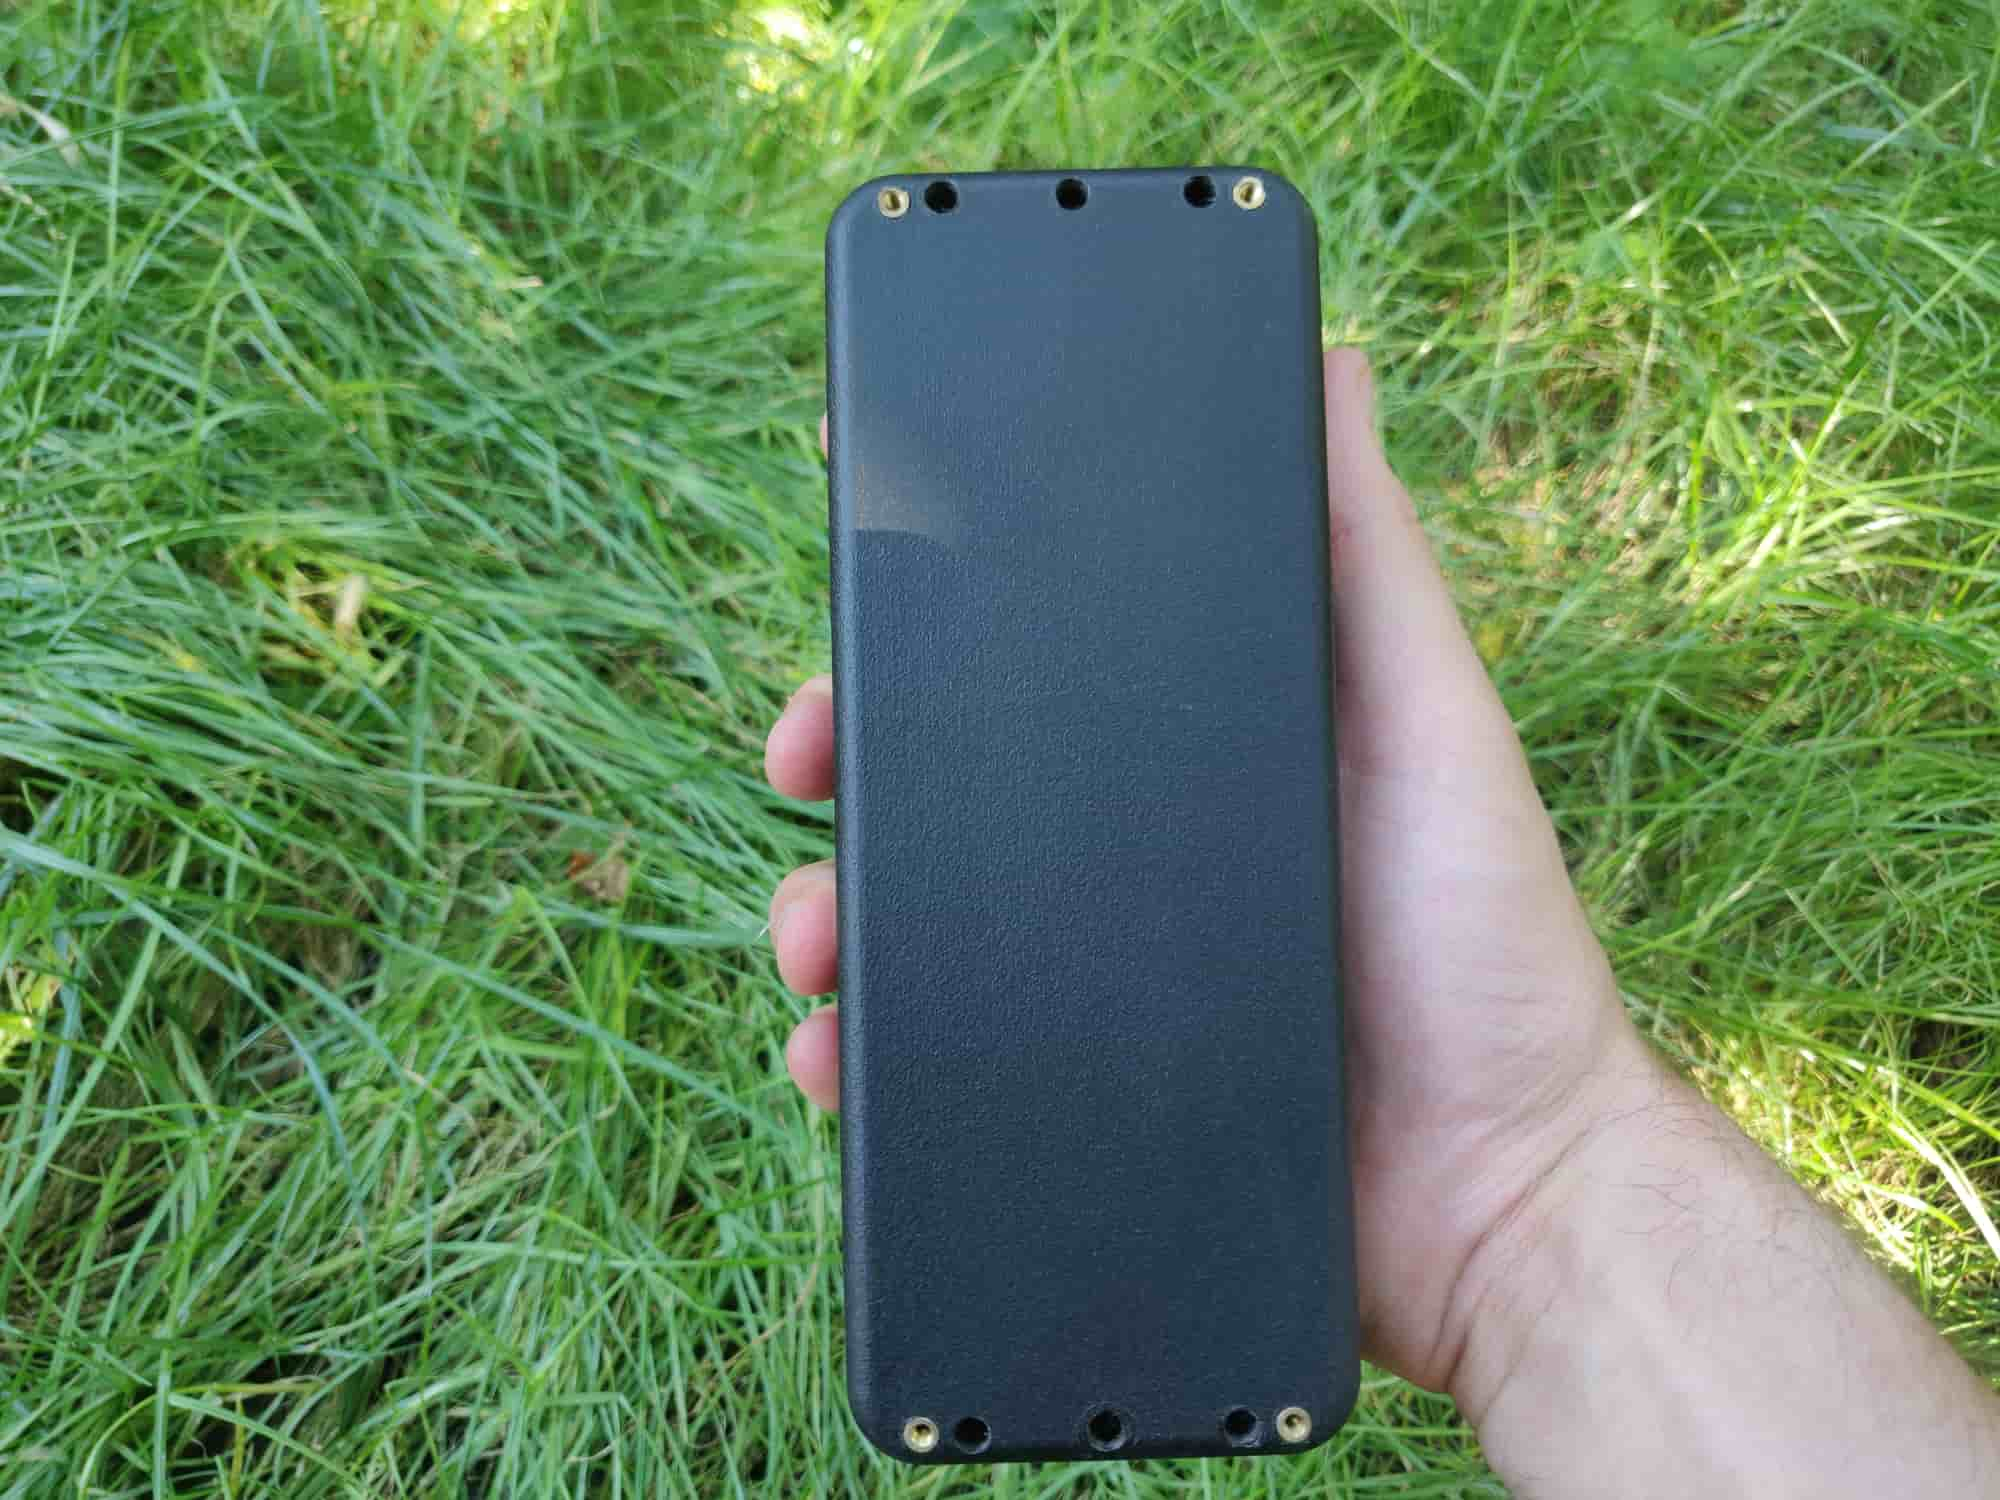
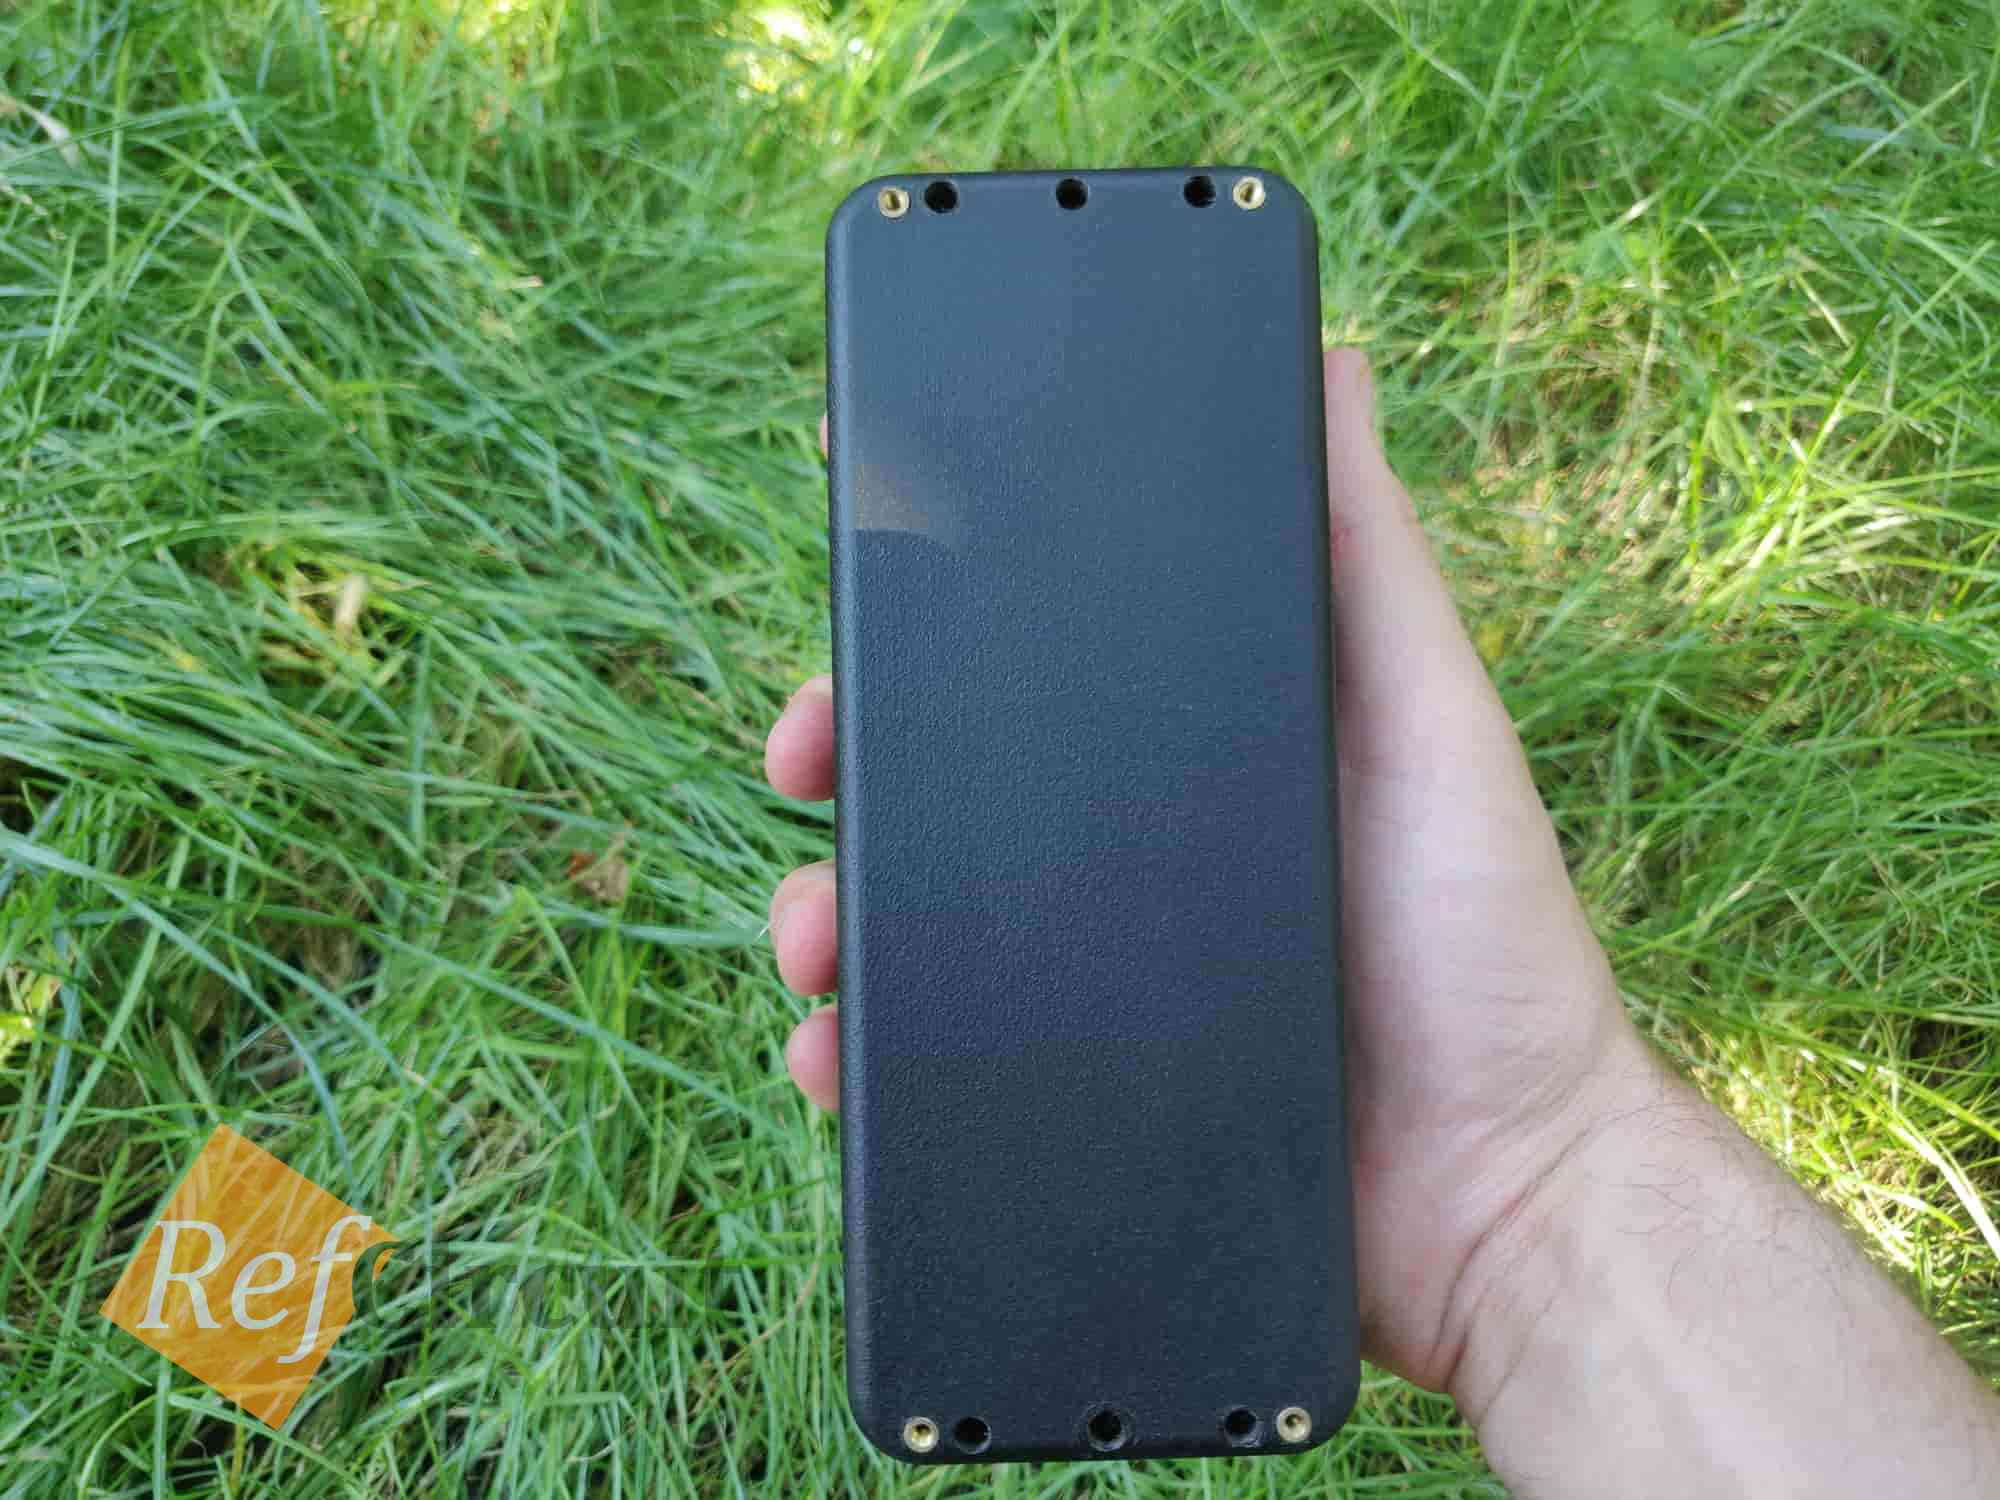
readme: add tests photos

Changed region(s): [[0.031, 0.736, 0.372, 0.9507]]

diff --git a/README.md b/README.md
@@ -25,6 +25,14 @@ BLE UART, activity timeout, and deep/light sleep support.
   <img src="img/apb_photo_bot.jpg" alt="APB assembled bottom view" width="46%">
 </p>
 
+## 🎡 Tests
+
+<p align="right">
+  <img src="img/a1_c2_test.jpg" alt="APB assembled top view" width="46%">
+  <img src="img/c1_c2_test.jpg" alt="APB assembled bottom view" width="46%">
+</p>
+
+
 ## 🏈 Features
 
 - Transparent top cover (3mm acrylic) + 3D printed case
